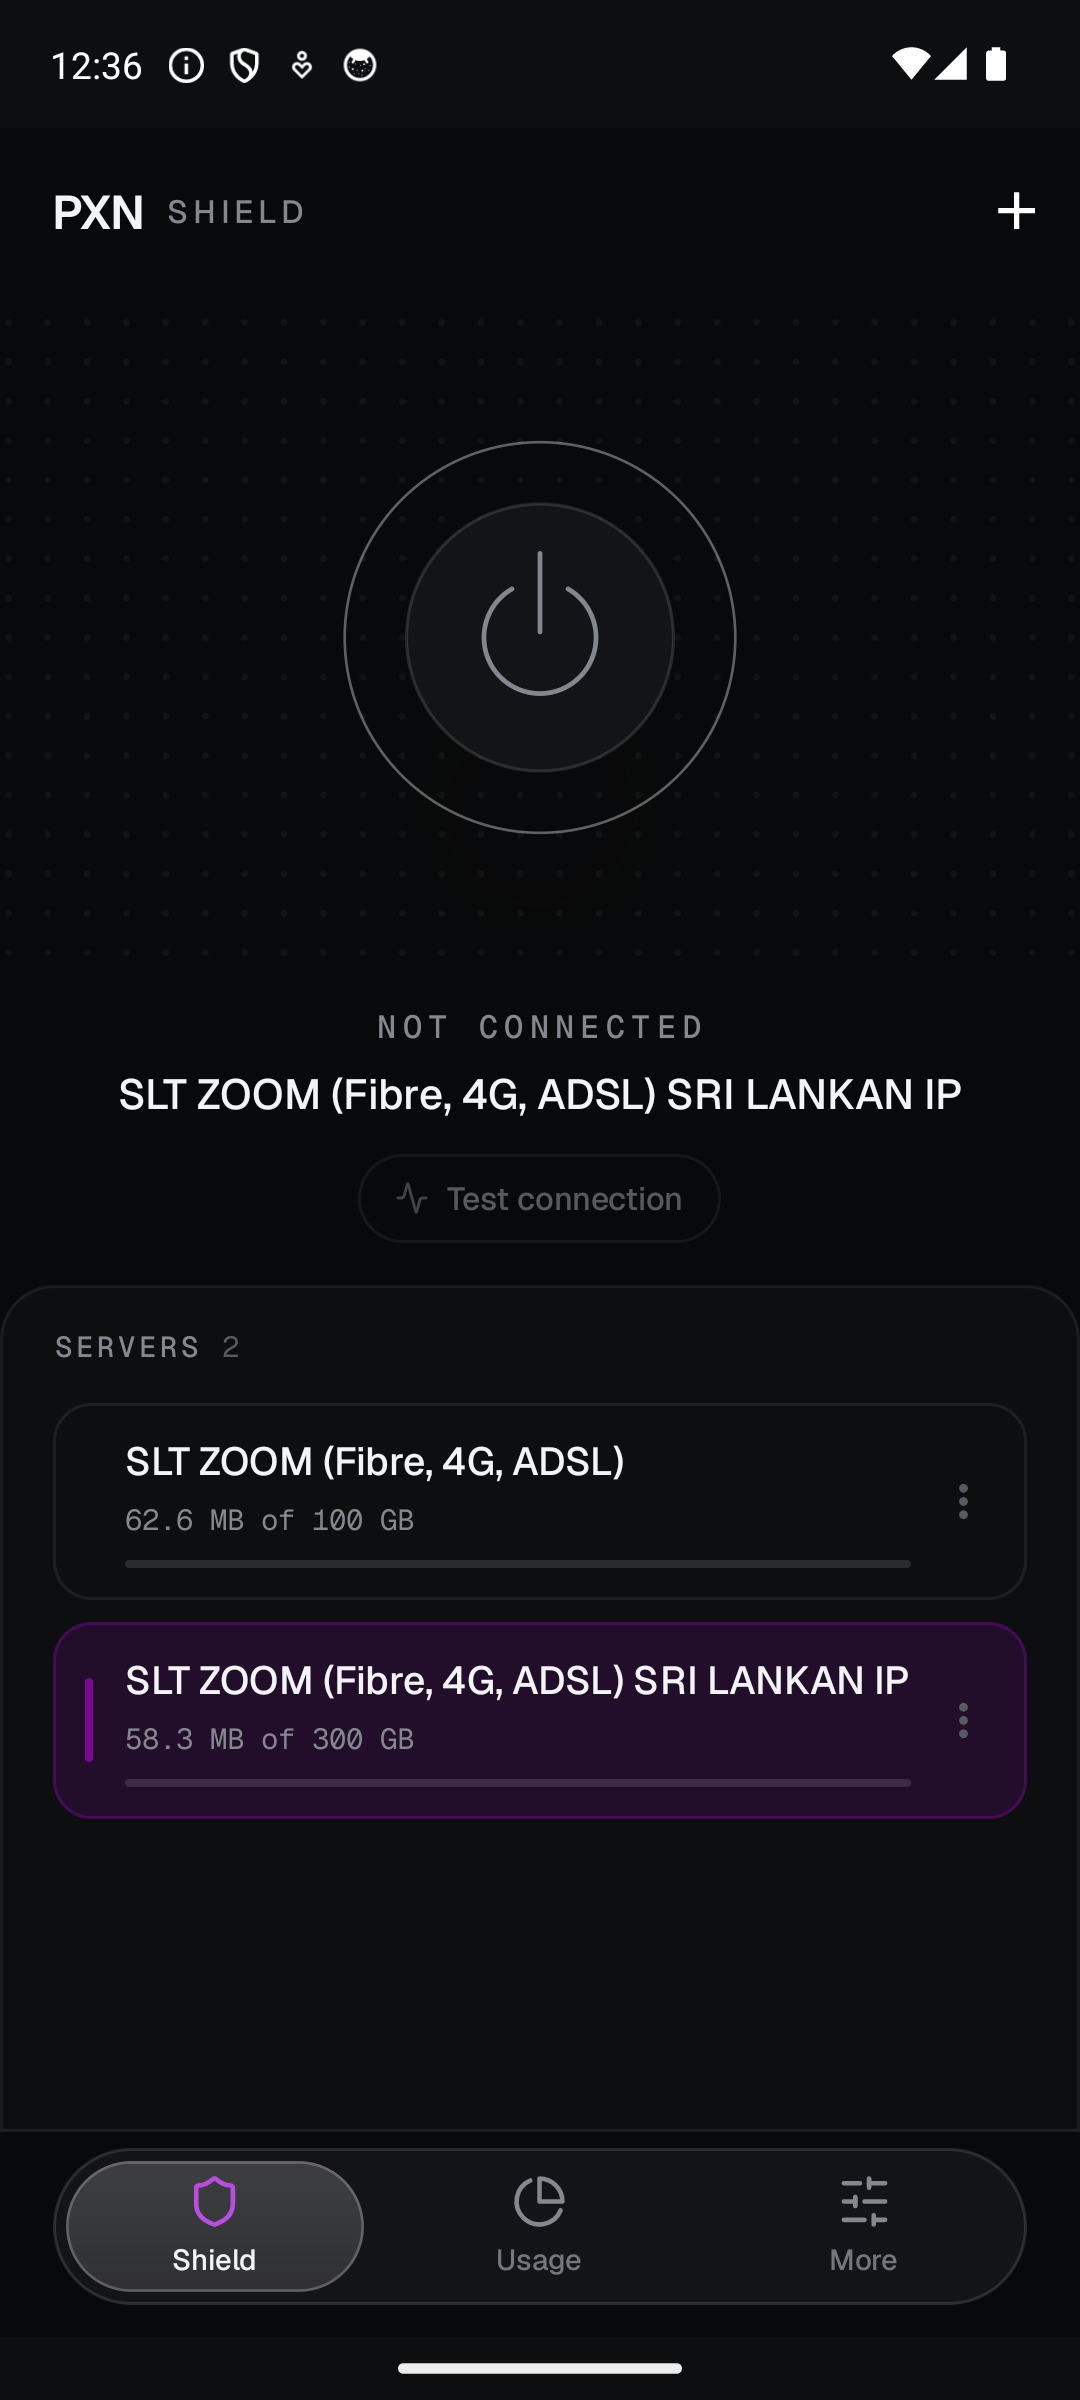
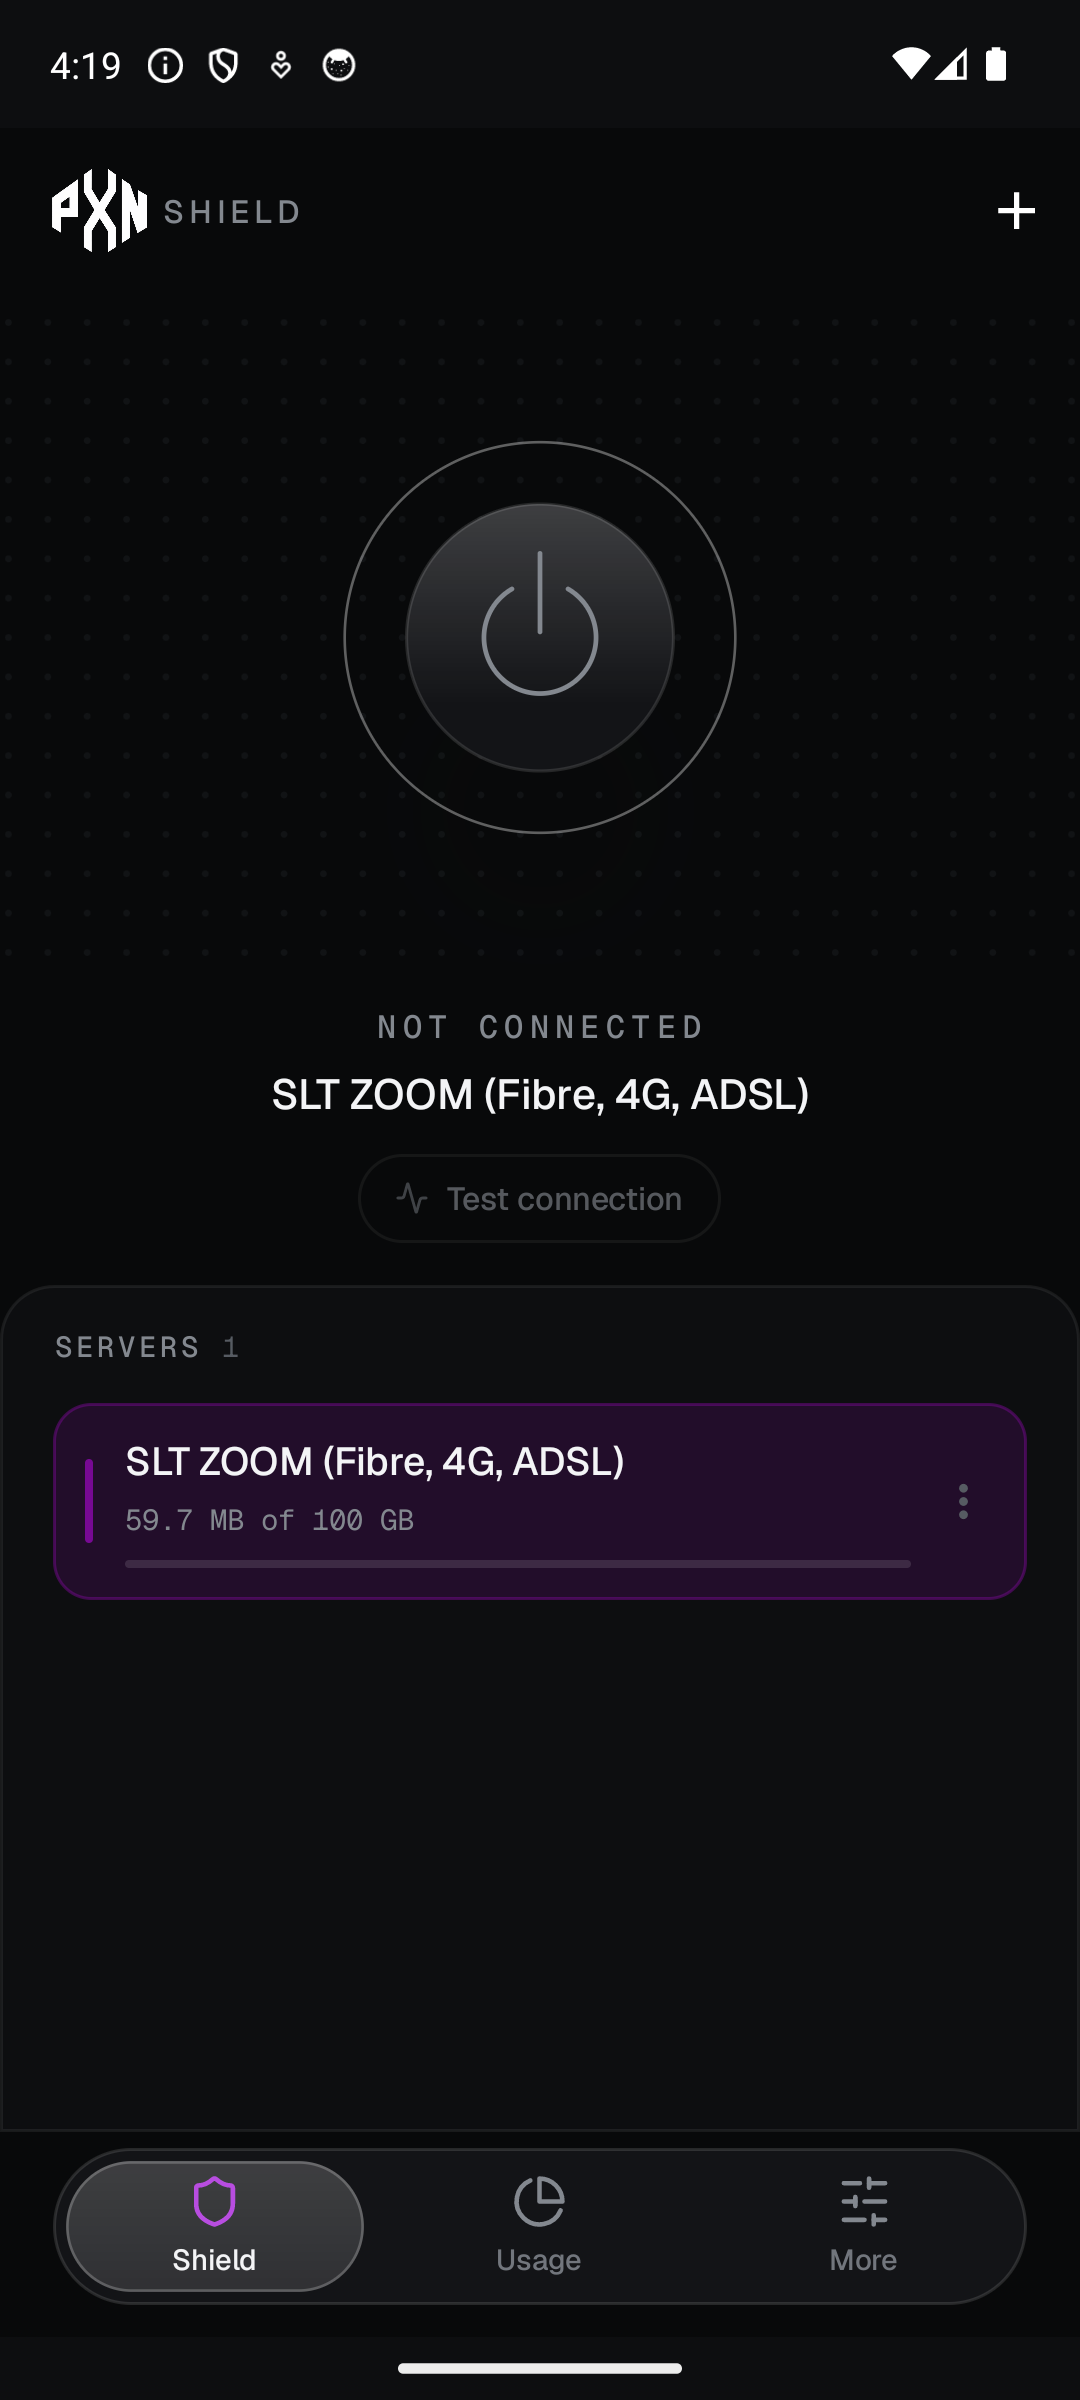
Refresh screenshots for 1.0.0 and drop the checksum section

diff --git a/README.md b/README.md
@@ -66,22 +66,8 @@ prompt is the system's, and the permission can be revoked afterwards.
 4. On first connect, Android asks permission to set up a VPN. That prompt is the
    system's, and it is how every VPN app on Android works.
 
-### Verifying what you downloaded
-
-Every release is signed with the same key. You can check that an APK really came
-from us:
-
-```bash
-apksigner verify --print-certs PXN-Shield-VPN_1.0.0_arm64-v8a.apk
-```
-
-The SHA-256 of the signing certificate should be:
-
-```
-81:9F:B4:94:F9:D6:49:F0:FA:17:11:9C:40:90:86:18:D1:4B:E9:C2:8A:7D:B3:A9:B6:33:D3:27:75:2A:5F:2D
-```
-
-If it differs, the file was not built by us — delete it.
+Only download from the releases page on this repository. An APK for PXN Shield
+from anywhere else was not built by us.
 
 ## Updating
 
